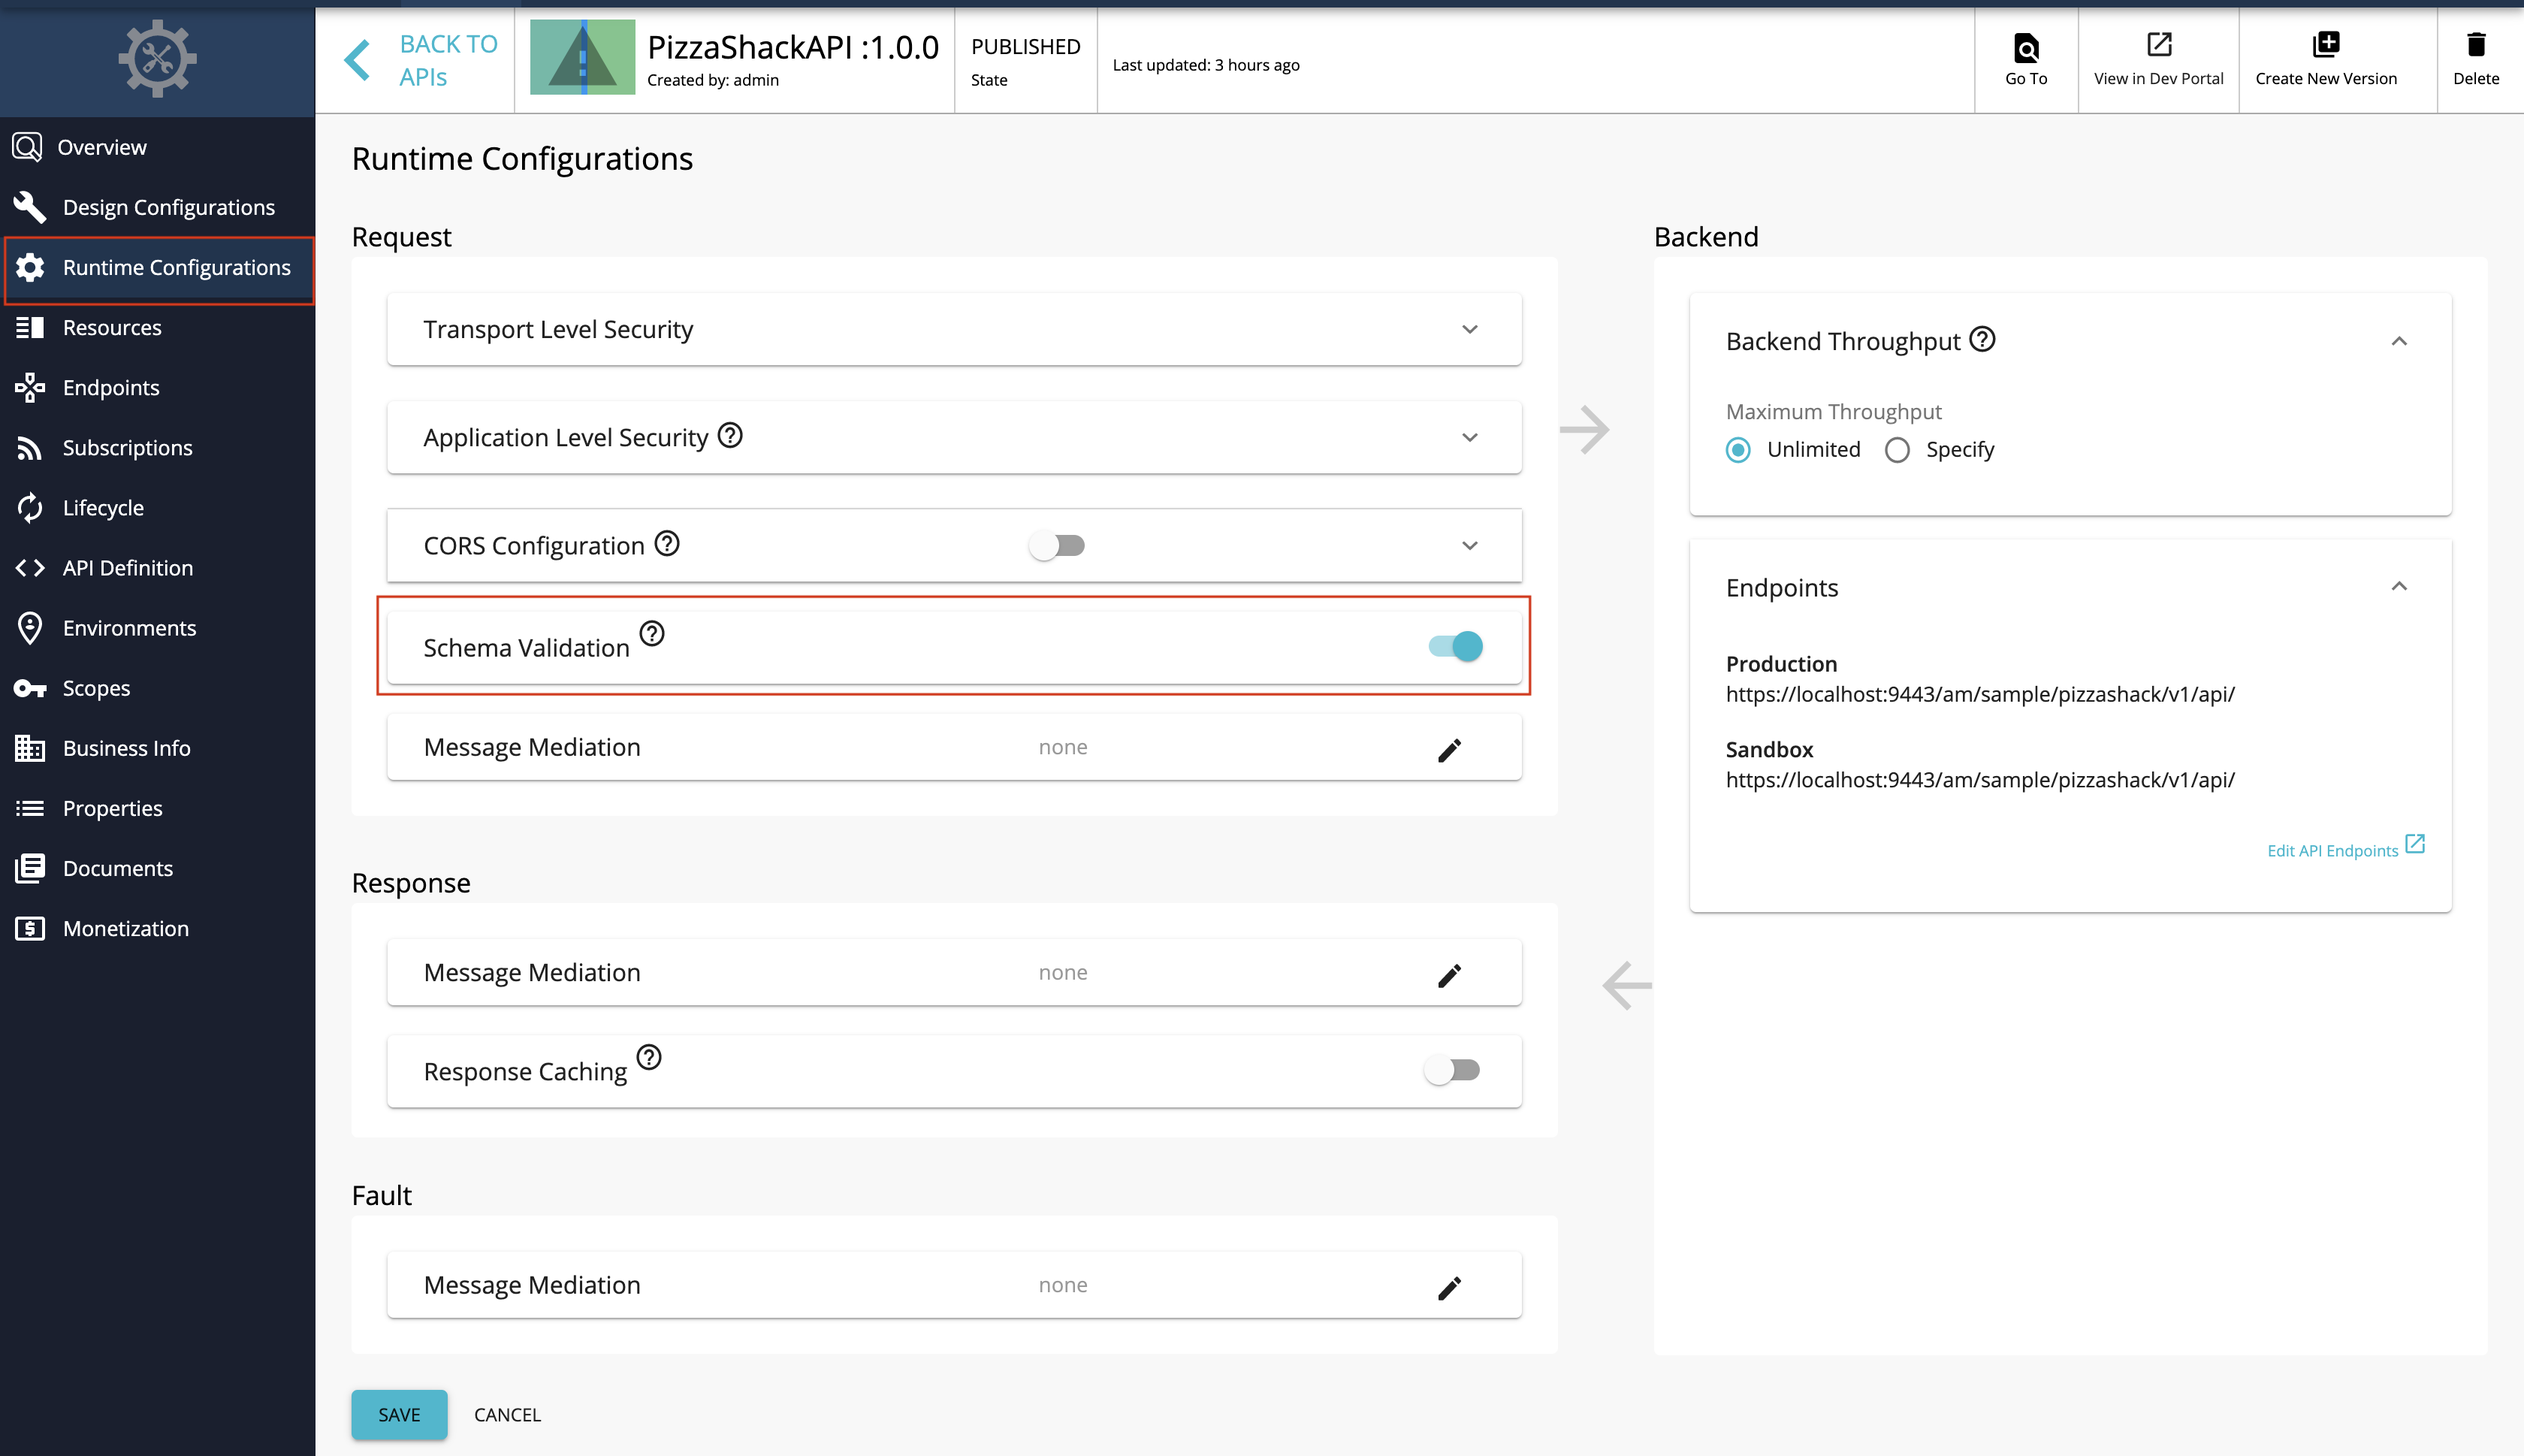
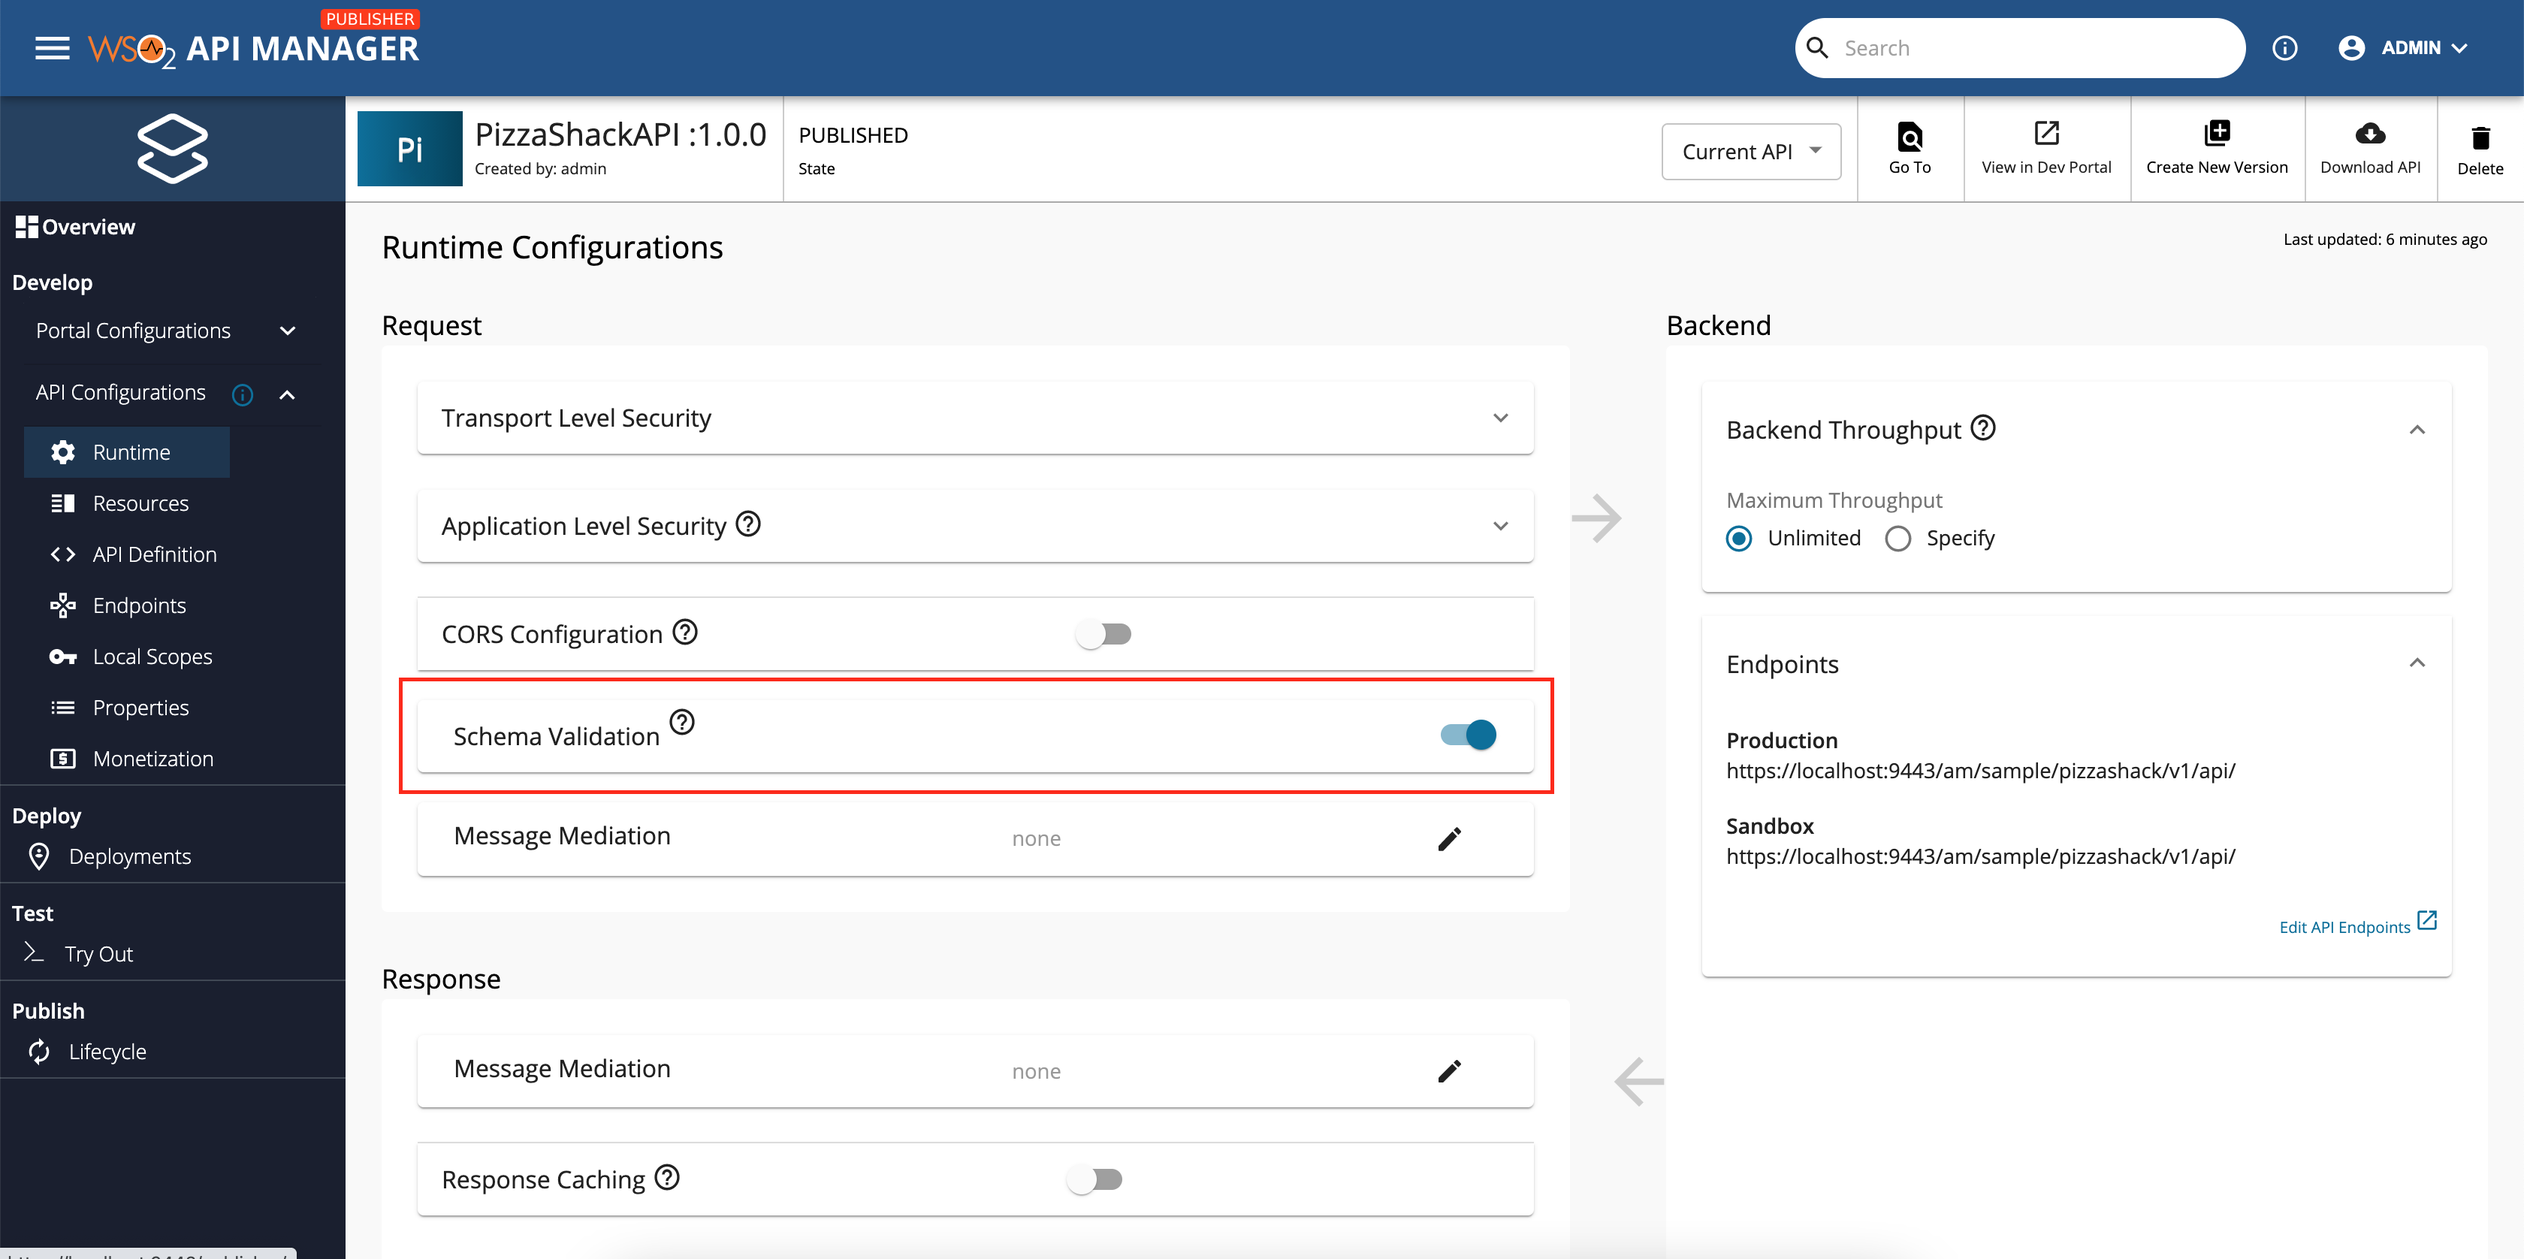
Fix - https://github.com/wso2/docs-apim/issues/3821

diff --git a/en/docs/design/api-security/api-request-response-schema-validation/json-schema-validator.md b/en/docs/design/api-security/api-request-response-schema-validation/json-schema-validator.md
@@ -91,12 +91,14 @@ The following validation response from the Gateway is displayed.
 
 2. Click on the API for which you need to enable JSON validation.
 
-3. Click **Runtime Configurations**.
+3. Click **API Configurations**.
 
-4. Enable **Schema Validation**.
+4. Click **Runtime**.
+
+5. Enable **Schema Validation**.
 
      By default, the schema validation property is set to `false`.
 
      ![Enable API schema validation]({{base_path}}/assets/img/learn/api-runtime-config.png)
 
-5. Click **SAVE**.
+6. Click **SAVE**.
